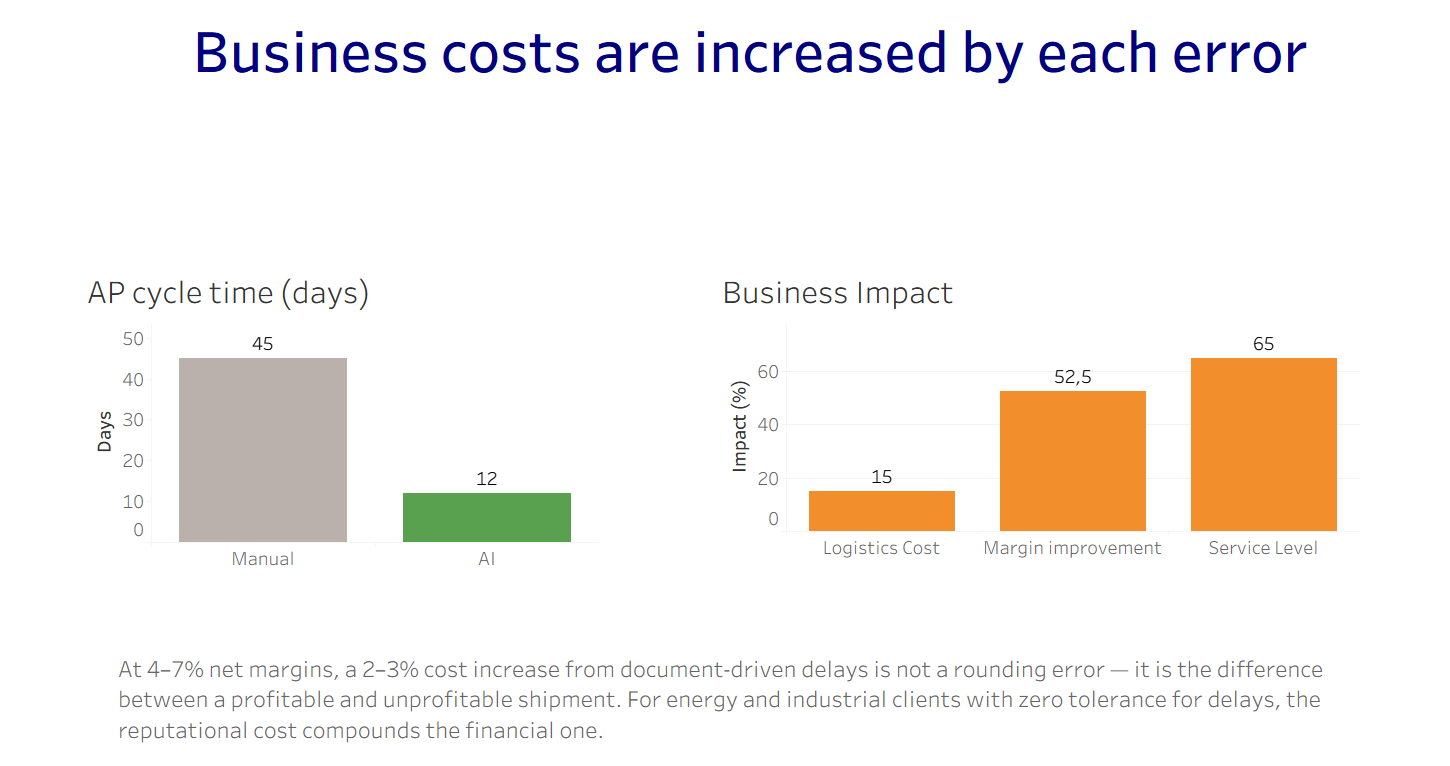
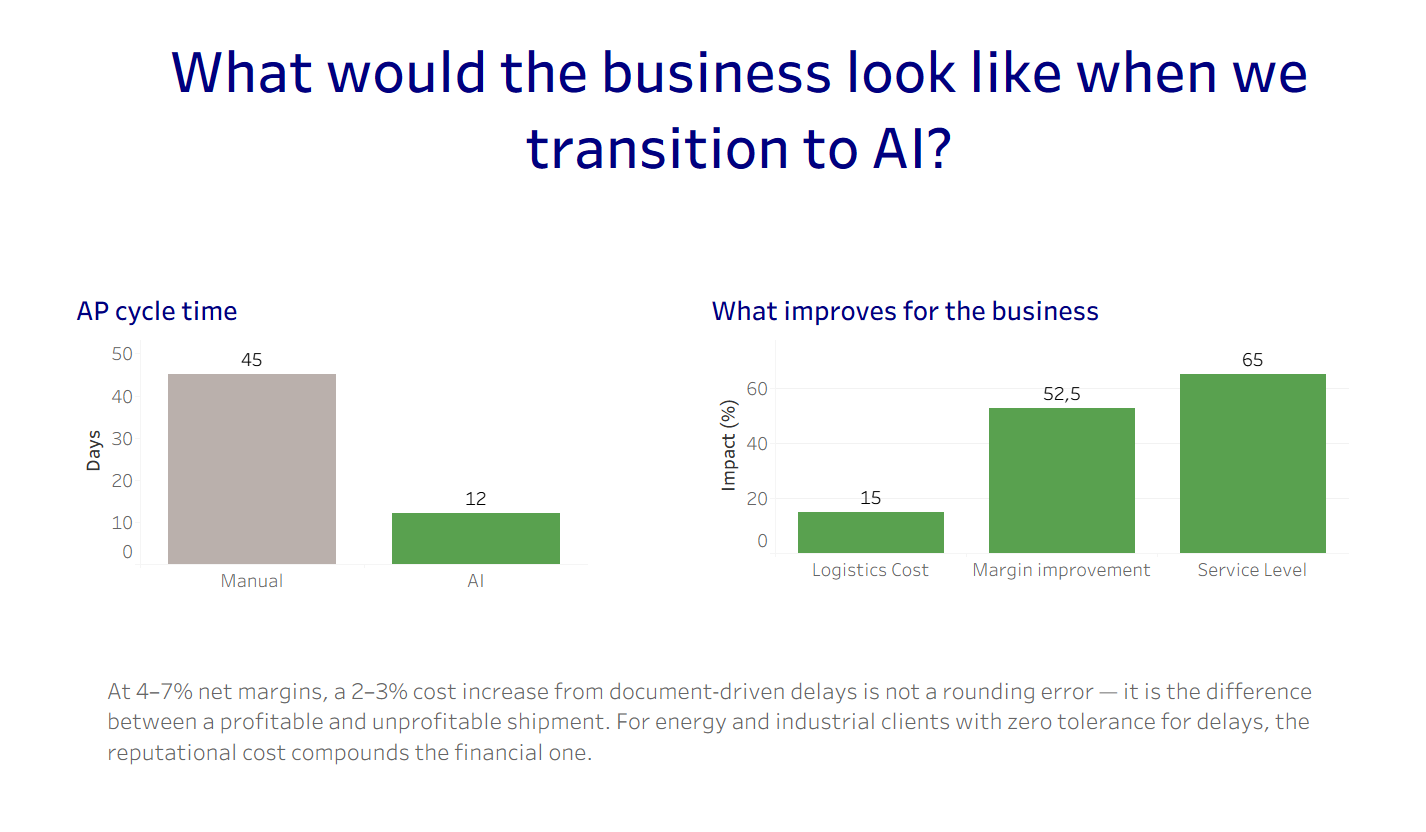
change_v15

diff --git a/README.md b/README.md
@@ -221,7 +221,7 @@ The dashboard is the presentation layer of a complete project. Each implementati
 |---|---|---|
 | `README.md` | root | This file — project overview and documentation index |
 | `requirements.txt` | root | Python dependencies for `process_datasets.py` |
-| `Dashboard_ai_opportunity_v2.twb` | `presentation/` | Tableau workbook — 9-panel executive presentation |
+| `Dashboard_ai_opportunity_v2.twbx` | `presentation/` | Tableau workbook — 9-panel executive presentation |
 | `dashboard_documentation.md` | `dashboard/` | Full dashboard technical documentation |
 | `benchmarks.xlsx` | `data/processed/` | Primary data source — all panels |
 | `company_cases.xlsx` | `data/processed/` | Operator case studies — Panel 4b |

diff --git a/ai-adoption-opportunity-project/dashboard/dashboard_documentation.md b/ai-adoption-opportunity-project/dashboard/dashboard_documentation.md
@@ -330,7 +330,7 @@ The workbook locale is set to **English (United States)** to ensure decimal sepa
 **What to capture:** Full panel showing the five-step cascade (Document Error → Customs Hold → Missed Delivery Window → Expedite Shipment → Margin Erosion).
 **Key visual:** The downward arrows connecting each step; the red borders on steps 1 and 5.
 **Screenshot 3.1:** ![screenshot_panel3.1_cost_chain](screenshots/image-3.png)
-**Screenshot 3.2:** ![screenshot_panel3.1_business_impact](screenshots/image-4.png)
+**Screenshot 3.2:** ![screenshot_panel3.2_transition_to_AI](image-4.png)
 
 ---
 
